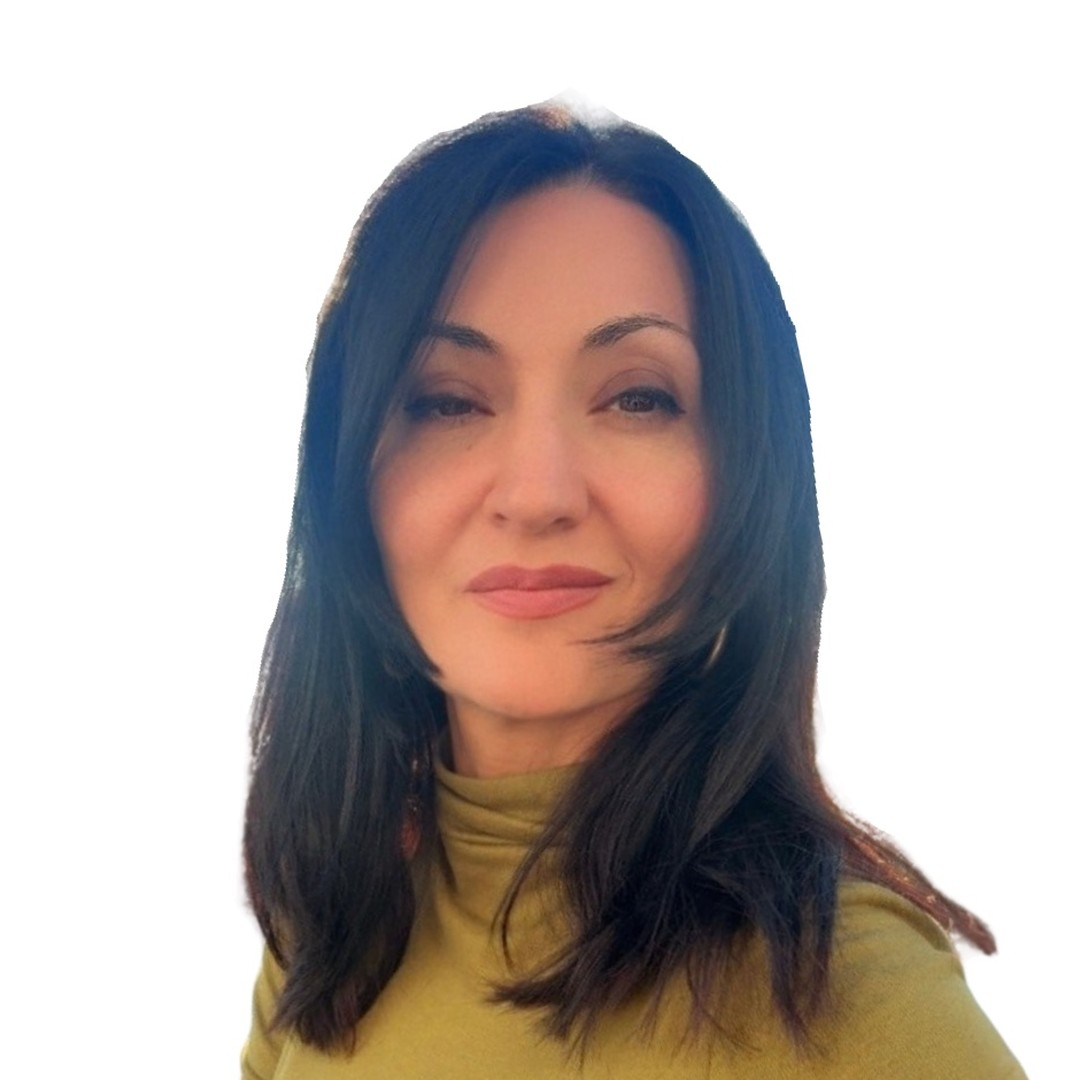
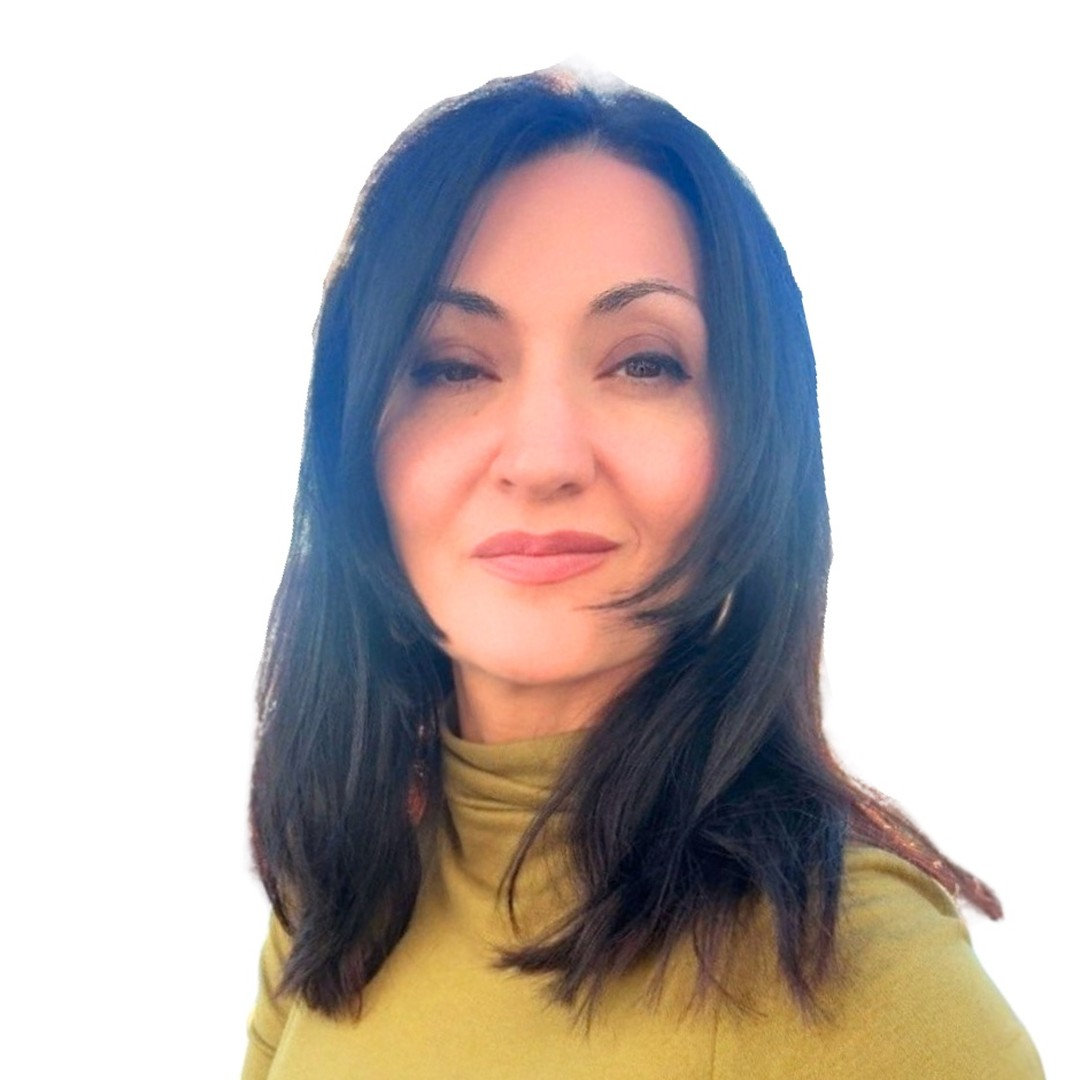
Replace Lilit Aleksanyan's photo and raise it to match other specialists
Claude-Session: https://claude.ai/code/session_01UY2yYSyHezMTLTrkPybDFD

diff --git a/team.html b/team.html
@@ -240,7 +240,7 @@
           <a class="more" href="adlea-specialist-bios.html#hasmik-muradyan">Learn more &#8594;</a>
         </div>
         <div class="team-card">
-          <div class="team-photo"><img src="assets/lilit-aleksanyan.jpg" alt="Lilit Aleksanyan"></div>
+          <div class="team-photo"><img src="assets/lilit-aleksanyan.jpg?v=2" alt="Lilit Aleksanyan"></div>
           <h3>Lilit Aleksanyan</h3>
           <p class="role">Translation and Interpreting Specialist</p>
           <a class="more" href="adlea-specialist-bios.html#lilit-aleksanyan">Learn more &#8594;</a>

diff --git a/adlea-specialist-bios.html b/adlea-specialist-bios.html
@@ -261,7 +261,7 @@
       </div>
 
       <div id="lilit-aleksanyan" class="bio-section">
-        <div class="bio-photo"><img src="assets/lilit-aleksanyan.jpg" alt="Lilit Aleksanyan"></div>
+        <div class="bio-photo"><img src="assets/lilit-aleksanyan.jpg?v=2" alt="Lilit Aleksanyan"></div>
         <div class="bio-text">
           <span class="eyebrow">Specialist Team</span>
           <h2>Lilit Aleksanyan</h2>
